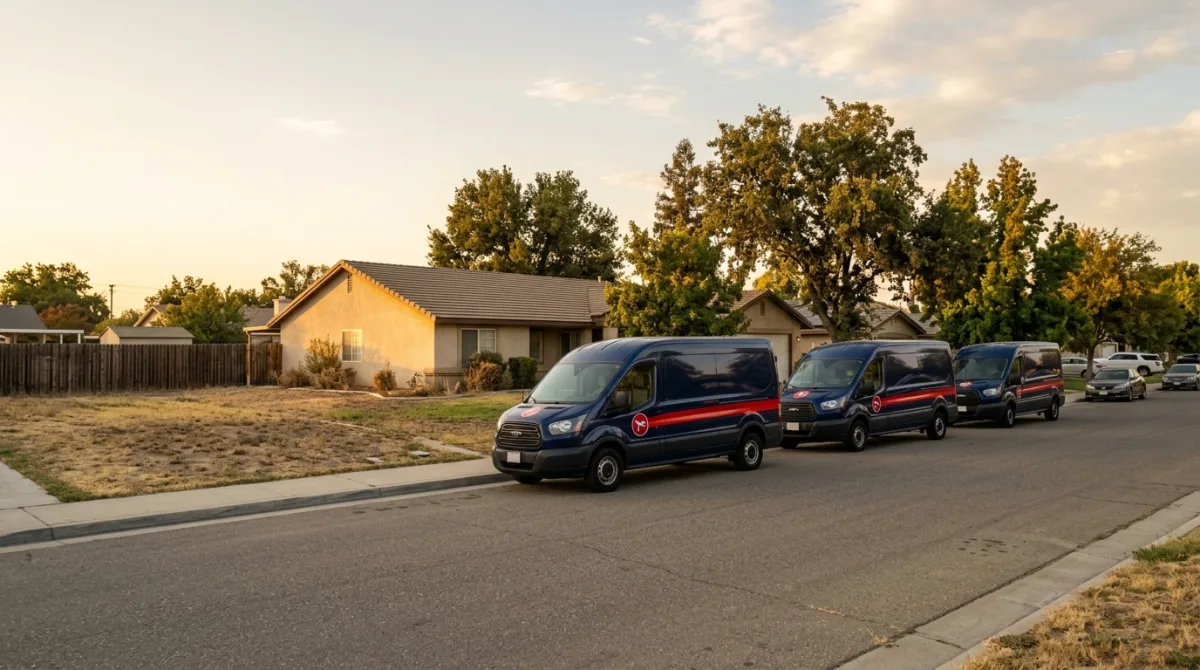
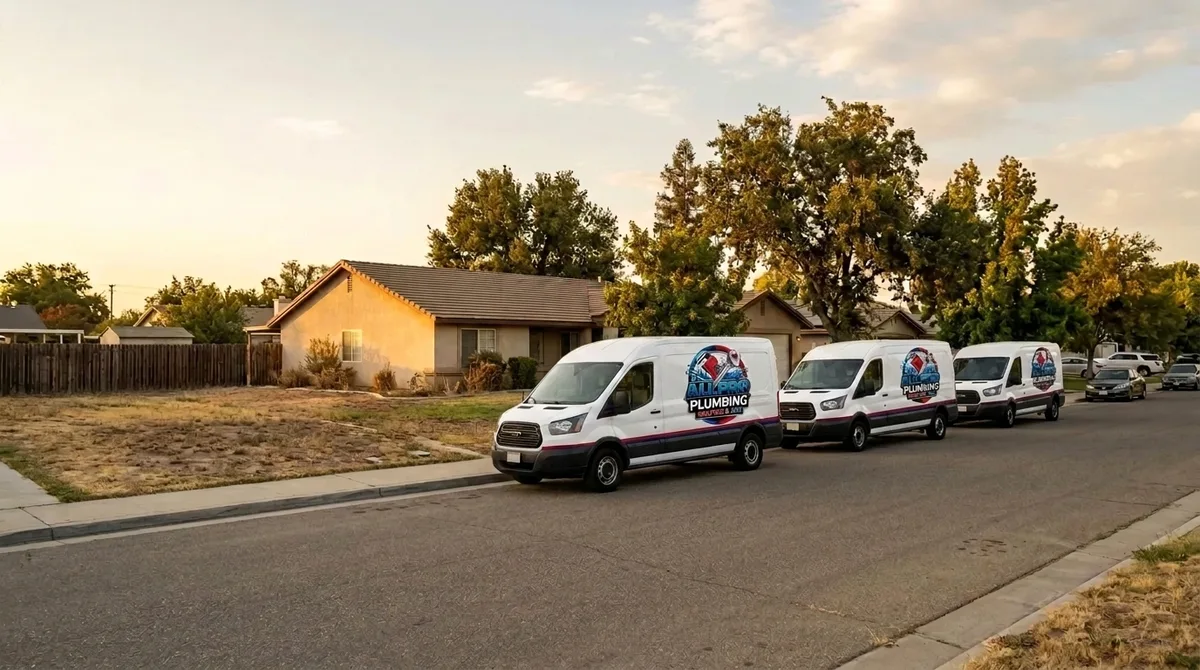
all-pro-plumbing: white vans with real round badge decal + standing brand rules
- hero-bg: navy fleet repainted WHITE with faithful All Pro round badge decals (ring colors/wrenches/splash correct; smallest badge text softens naturally with distance)
- team: navy van repainted WHITE, one clean badge per rear door; navy uniform kept (declared standard)
- style guide: standing brand rules (real logo on vehicles, WHITE vans only, single uniform color = navy, harvest-first); old-site harvest verdict: stock-only, nothing usable
- all 22 per-service images audited: no vehicles present, uniforms already consistent navy

diff --git a/clients/all-pro-plumbing/image-style-guide.md b/clients/all-pro-plumbing/image-style-guide.md
@@ -6,6 +6,15 @@ The values below are auto-populated from `plan-input.json` at planning time. Per
 
 ---
 
+## STANDING BRAND RULES (Santino, 2026-07-11) — apply to EVERY image
+
+1. **Vehicles carry the client's REAL logo.** Any generated image featuring a company vehicle must show the client's actual logo mark — supply the real logo file as a reference image to `gemini_edit_image` / `gemini_generate_image` and iterate until the mark reads faithfully (shape + colors; sized so lettering stays clean or is naturally implied at distance). The no-text rule still applies to everything EXCEPT the logo mark itself. For this client: `clients/all-pro-plumbing/All-Pro-Plumbing-Logo-v4.png` — round red/blue badge (crossed wrenches + water splash), which works well as a circular van-side/door decal. Fallback after 3 failed attempts: the circular badge with softened/implied lettering (ring colors + wrench silhouette must stay correct).
+2. **One crew uniform color per client, everywhere.** Declared once, used in every image (hero, team, services, per-service, blog heroes). **This client's uniform: NAVY work shirts/polos** (dark navy ~#0d1b3e with a thin red accent/piping), charcoal or navy work pants. All 22 per-service images already conform.
+3. **Vehicles are WHITE.** Company vans are always clean WHITE with a slim red-and-navy accent stripe and the round badge decal — never navy/blue-bodied vans (Santino 2026-07-11).
+4. **If the client has an existing website, harvest its photos FIRST.** Real photos take priority for direct use where quality allows; otherwise use as style/livery references. This client: https://allproplumbingheatingandair.com harvested 2026-07-11 — verdict: ALL imagery on the old WordPress site is generic stock (mixed uniforms, no real crew, no real fleet, no All Pro branding). Nothing usable for direct use or livery reference; generation continues from the logo + this guide.
+
+---
+
 ## Camera & Lens Setup
 
 - **Camera**: Sony A7 IV (full-frame mirrorless) — implied; the LLM prompt should reference "professional photography, mirrorless full-frame look"
@@ -87,7 +96,7 @@ Per-client brand colors take priority. The values below are substituted from `pl
 Every image that depicts a person must show a technician in branded company workwear. This is non-negotiable for visual consistency and trust signaling.
 
 ### Uniform specifications
-- **Top**: Work shirt or polo in the client's primary brand color (`#0d1b3e`). For darker brand colors (navy, deep red, charcoal), use that color directly. For lighter brand colors, render as a darker navy or charcoal work shirt with the brand color visible as logo embroidery, accent stripe, or branded cap.
+- **Top**: **NAVY work shirt or polo** (dark navy `#0d1b3e` with a thin red accent stripe/piping) — the declared standing uniform color for this client (see Standing Brand Rules above).
 - **Bottom**: Neutral work pants (charcoal, dark navy, or khaki). Subordinate to the top.
 - **Branding**: All Pro Plumbing Heating and Air or All Pro embroidered on chest or back.
 - **PPE**: Safety glasses when cutting, soldering, or working overhead; gloves for drain, sewer, and gas work; knee pads for under-sink and floor-level work; respirator only where genuinely appropriate (crawlspace, attic insulation). Shoe covers visible in finished-interior scenes.
@@ -200,3 +209,6 @@ This list drives the image generation plan. Skill 3 (initial scaffold) generates
 ## Style guide version
 
 This guide is generated from `templates/plumbing/image-style-guide.template.md` v1.0. When the canonical template updates, existing clients keep their pinned version unless explicitly regenerated. Bump the version + add a changelog entry when changing structural rules (e.g., adding new mandatory PPE conventions).
+
+**Changelog**
+- **v1.1 (2026-07-11)**: Added Standing Brand Rules (real round-badge logo on vehicles, WHITE vans only, single uniform color = navy, harvest-first). hero-bg + team regenerated: navy vans repainted white with the real All Pro badge decal. Old-site harvest completed — stock-only, nothing usable.
